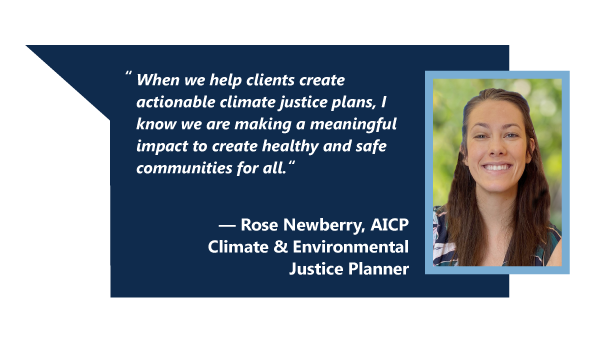
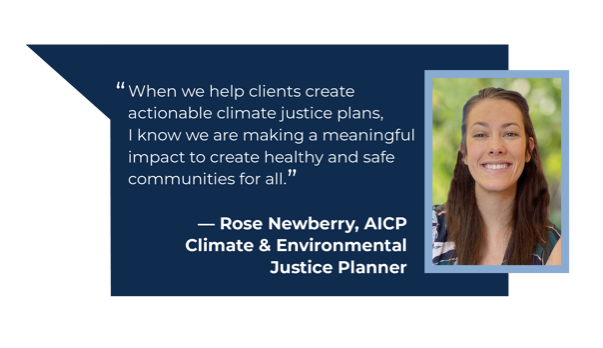
made edits to all bios
update font to match new branding, text edits to quotes

diff --git a/index.hyperesources/index_hype_generated_script.js b/index.hyperesources/index_hype_generated_script.js
@@ -3,5 +3,5 @@
 (function(){(function m(){function k(a,b,c,d){var e=!1;null==window[a]&&(null==window[b]?(window[b]=[],window[b].push(m),a=document.getElementsByTagName("head")[0],b=document.createElement("script"),e=l,false==!0&&(e=""),b.type="text/javascript",""!=d&&(b.integrity=d,b.setAttribute("crossorigin","anonymous")),b.src=e+"/"+c,a.appendChild(b)):window[b].push(m),e=!0);return e}var l="index.hyperesources",f="index",g="index_hype_container";if(false==
 !1)try{for(var c=document.getElementsByTagName("script"),a=0;a<c.length;a++){var d=c[a].src,b=null!=d?d.indexOf("/index_hype_generated_script.js"):-1;if(-1!=b){l=d.substr(0,b);break}}}catch(p){}c=navigator.userAgent.match(/MSIE (\d+\.\d+)/);c=parseFloat(c&&c[1])||null;d=!0==(null!=window.HYPE_736F||null!=window.HYPE_dtl_736F)||false==!0||null!=c&&10>c;a=!0==d?"HYPE-736.full.min.js":"HYPE-736.thin.min.js";c=!0==d?"F":"T";d=d?"":
 "";if(false==!1&&(a=k("HYPE_736"+c,"HYPE_dtl_736"+c,a,d),false==!0&&(a=a||k("HYPE_w_736","HYPE_wdtl_736","HYPE-736.waypoints.min.js","")),false==!0&&(a=a||k("Matter","HYPE_pdtl_736","HYPE-736.physics.min.js","")),a))return;d=window.HYPE.documents;if(null!=d[f]){b=1;a=f;do f=""+a+"-"+b++;while(null!=d[f]);for(var e=document.getElementsByTagName("div"),
-b=!1,a=0;a<e.length;a++)if(e[a].id==g&&null==e[a].getAttribute("HYP_dn")){var b=1,h=g;do g=""+h+"-"+b++;while(null!=document.getElementById(g));e[a].id=g;b=!0;break}if(!1==b)return}b=[];b=[];e={};h={};for(a=0;a<b.length;a++)try{h[b[a].identifier]=b[a].name,e[b[a].name]=eval("(function(){return "+b[a].source+"})();")}catch(n){window.console&&window.console.log(n),e[b[a].name]=function(){}}c=new window["HYPE_736"+c](f,g,{"-2":{n:"blank.gif"},"18":{p:1,n:"Curtis_quote.png",g:"315",o:true,t:"@1x"},"10":{p:1,n:"legend.png",g:"281",o:true,t:"@1x"},"19":{p:1,n:"Curtis_quote_2x.png",g:"315",o:true,t:"@2x"},"11":{p:1,n:"legend_2x.png",g:"281",o:true,t:"@2x"},"0":{p:1,n:"state_lines.png",g:"37",t:"@1x"},"12":{p:1,n:"adrienne_quote.png",g:"252",t:"@1x"},"1":{p:1,n:"lines.png",g:"23",t:"@1x"},"2":{p:1,n:"peeps.png",g:"25",t:"@1x"},"13":{p:1,n:"Vipul_quote.png",g:"283",t:"@1x"},"3":{p:1,n:"laurie_M_quote.png",g:"126",t:"@1x"},"14":{p:1,n:"Keith_quote.png",g:"285",t:"@1x"},"4":{p:1,n:"lisa_quote.png",g:"196",t:"@1x"},"5":{p:1,n:"Dustin_quote.png",g:"214",t:"@1x"},"15":{p:1,n:"erlin_quote.png",g:"234",t:"@1x"},"6":{p:1,n:"map.png",g:"19",t:"@1x"},"16":{p:1,n:"allison_quote.png",g:"254",o:true,t:"@1x"},"7":{p:1,n:"blue_dot.png",g:"59",o:true,t:"@1x"},"-1":{n:"PIE.htc"},"8":{p:1,n:"blue_dot_2x.png",g:"59",o:true,t:"@2x"},"17":{p:1,n:"allison_quote_2x.png",g:"254",o:true,t:"@2x"},"9":{p:1,n:"Rose_quote.png",g:"86",t:"@1x"}},l,[],e,[{n:"opening",o:"1",X:[0]},{n:"Curtis",o:"297",X:[1]},{n:"adrienne",o:"236",X:[2]},{n:"Erlin",o:"218",X:[3]},{n:"Rose",o:"258",X:[4]},{n:"Allison",o:"88",X:[5]},{n:"Laurie",o:"110",X:[6]},{n:"vipul",o:"144",X:[7]},{n:"Keith",o:"162",X:[8]},{n:"Lisa",o:"180",X:[9]},{n:"dustin",o:"198",X:[10]}],
-[{o:"3",p:"600px",cA:false,Y:1240,Z:800,L:[],c:"#FFF",bY:1,d:1240,U:{},T:{kTimelineDefaultIdentifier:{q:false,z:2,i:"kTimelineDefaultIdentifier",n:"Main Timeline",a:[{f:"c",y:0,z:1,i:"e",e:0,s:1,o:"322"},{f:"c",y:0,z:1,i:"e",e:0,s:1,o:"326"},{f:"c",y:0,z:1,i:"e",e:0,s:1,o:"329"},{f:"c",y:0,z:1,i:"e",e:0,s:1,o:"317"},{f:"c",y:0,z:1,i:"e",e:0,s:1,o:"320"},{f:"c",y:0,z:1,i:"e",e:0,s:1,o:"324"},{f:"c",y:0,z:1,i:"e",e:0,s:1,o:"327"},{f:"c",y:0,z:1,i:"e",e:0,s:1,o:"331"},{f:"c",y:0,z:1,i:"e",e:0,s:1,o:"318"},{f:"c",y:0,z:1,i:"e",e:0,s:1,o:"321"},{f:"c",y:1,z:1,i:"e",e:1,s:0,o:"326"},{f:"c",y:1,z:1,i:"e",e:1,s:0,o:"322"},{f:"c",y:1,z:1,i:"e",e:1,s:0,o:"329"},{f:"c",y:1,z:1,i:"e",e:1,s:0,o:"317"},{f:"c",y:1,z:1,i:"e",e:1,s:0,o:"320"},{f:"c",y:1,z:1,i:"e",e:1,s:0,o:"324"},{f:"c",y:1,z:1,i:"e",e:1,s:0,o:"327"},{f:"c",y:1,z:1,i:"e",e:1,s:0,o:"331"},{f:"c",y:1,z:1,i:"e",e:1,s:0,o:"318"},{f:"c",y:1,z:1,i:"e",e:1,s:0,o:"321"},{f:"c",p:2,y:2,z:0,i:"ActionHandler",s:{a:[{b:"kTimelineDefaultIdentifier",p:3,z:false,symbolOid:"2"}]},o:"kTimelineDefaultIdentifier"},{y:2,i:"e",s:1,z:0,o:"326",f:"c"},{y:2,i:"e",s:1,z:0,o:"322",f:"c"},{y:2,i:"e",s:1,z:0,o:"329",f:"c"},{y:2,i:"e",s:1,z:0,o:"317",f:"c"},{y:2,i:"e",s:1,z:0,o:"320",f:"c"},{y:2,i:"e",s:1,z:0,o:"324",f:"c"},{y:2,i:"e",s:1,z:0,o:"327",f:"c"},{y:2,i:"e",s:1,z:0,o:"331",f:"c"},{y:2,i:"e",s:1,z:0,o:"318",f:"c"},{y:2,i:"e",s:1,z:0,o:"321",f:"c"}],f:30,b:[]}},bZ:180,O:["319","325","330","328","318","331","326","320","324","322","321","329","317","323","327"],n:"Untitled Layout","_":0,v:{"329":{aD:{a:[{d:0.25,p:1,g:2,e:"110"}]},p:"no-repeat",x:"visible",h:"59",q:"100% 100%",a:85,j:"absolute",r:"inline",z:10,b:472,dB:"img",d:39,k:"div",c:39,e:1,aP:"pointer"},"318":{aD:{a:[{d:0.25,p:1,g:2,e:"218"}]},p:"no-repeat",x:"visible",h:"59",q:"100% 100%",a:1019,j:"absolute",r:"inline",z:16,b:230,dB:"img",d:39,k:"div",c:39,e:1,aP:"pointer"},"324":{aD:{a:[{d:0.25,p:1,g:2,e:"162"}]},p:"no-repeat",x:"visible",h:"59",q:"100% 100%",a:487,j:"absolute",r:"inline",z:13,b:318,dB:"img",d:39,k:"div",c:39,e:1,aP:"pointer"},"330":{h:"19",p:"no-repeat",x:"visible",a:0,dB:"img",q:"100% 100%",j:"absolute",r:"inline",z:1,k:"div",b:0,d:800,c:1240},"327":{aD:{a:[{d:0.5,p:1,g:2,e:"198"}]},p:"no-repeat",x:"visible",h:"59",q:"100% 100%",a:387,j:"absolute",r:"inline",z:14,b:606,dB:"img",d:39,k:"div",c:39,e:1,aP:"pointer"},"322":{aD:{a:[{d:0.25,p:1,g:2,e:"297"}]},p:"no-repeat",x:"visible",h:"59",q:"100% 100%",a:312,j:"absolute",r:"inline",b:361,z:7,dB:"img",d:39,k:"div",c:39,e:1,aP:"pointer",bD:"none"},"319":{h:"25",p:"no-repeat",x:"visible",a:4,dB:"img",q:"100% 100%",j:"absolute",r:"inline",z:5,k:"div",b:0,d:800,c:1240},"320":{aD:{a:[{d:0.25,p:1,g:2,e:"88"}]},p:"no-repeat",x:"visible",h:"59",q:"100% 100%",a:228,j:"absolute",r:"inline",z:12,b:305,dB:"img",d:39,k:"div",c:39,e:1,aP:"pointer"},"325":{h:"37",p:"no-repeat",x:"visible",a:0,dB:"img",q:"100% 100%",j:"absolute",r:"inline",z:2,k:"div",b:0,d:800,c:1240},"331":{aD:{a:[{d:0.5,p:1,g:2,e:"180"}]},p:"no-repeat",x:"visible",h:"59",q:"100% 100%",a:793,j:"absolute",r:"inline",z:15,b:279,dB:"img",d:39,k:"div",c:39,e:1,aP:"pointer"},"328":{h:"23",p:"no-repeat",x:"visible",a:20,dB:"img",q:"100% 100%",j:"absolute",r:"inline",z:6,b:20,k:"div",d:800,c:1240,e:1},"317":{aD:{a:[{d:0.25,p:1,g:2,e:"144"}]},p:"no-repeat",x:"visible",h:"59",q:"100% 100%",a:149,j:"absolute",r:"inline",z:11,b:541,dB:"img",d:39,k:"div",c:39,e:1,aP:"pointer"},"323":{h:"281",p:"no-repeat",x:"visible",a:832,dB:"img",q:"100% 100%",j:"absolute",r:"inline",z:18,k:"div",b:539,d:22.32,c:201.6},"326":{aD:{a:[{d:0.25,p:1,g:2,e:"258"}]},p:"no-repeat",x:"visible",h:"59",q:"100% 100%",a:124,j:"absolute",r:"inline",b:310,z:8,dB:"img",d:39,k:"div",c:39,e:1,aP:"pointer",bD:"none"},"321":{aD:{a:[{d:0.5,p:1,g:2,e:"236"}]},p:"no-repeat",x:"visible",h:"59",q:"100% 100%",a:1135,j:"absolute",r:"inline",z:17,b:464,dB:"img",d:39,k:"div",c:39,e:1,aP:"pointer"}}},{o:"314",p:"600px",cA:false,Y:1240,Z:800,L:[],c:"#FFF",bY:1,d:1240,U:{},T:{kTimelineDefaultIdentifier:{q:false,z:2,i:"kTimelineDefaultIdentifier",n:"Main Timeline",a:[{f:"c",y:0,z:1,i:"e",e:0,s:1,o:"335"},{f:"c",y:1,z:1,i:"e",e:1,s:0,o:"335"},{f:"c",p:2,y:2,z:0,i:"ActionHandler",s:{a:[{b:"kTimelineDefaultIdentifier",p:3,z:false,symbolOid:"2"}]},o:"kTimelineDefaultIdentifier"},{y:2,i:"e",s:1,z:0,o:"335",f:"c"}],f:30,b:[]}},bZ:180,O:["332","336","334","333","337","335"],n:"Untitled Layout","_":1,v:{"337":{h:"315",p:"no-repeat",x:"visible",a:356,dB:"img",q:"100% 100%",j:"absolute",r:"inline",z:8,k:"div",b:129,d:252.48,c:550.32},"334":{h:"19",p:"no-repeat",x:"visible",a:0,dB:"img",q:"100% 100%",j:"absolute",r:"inline",z:1,k:"div",b:0,d:800,c:1240},"335":{h:"59",p:"no-repeat",x:"visible",a:312,q:"100% 100%",b:361,j:"absolute",r:"inline",z:7,dB:"img",k:"div",d:39,c:39,e:1,aP:"pointer",aC:{a:[{d:0.25,p:1,g:2,e:"1"}]},bD:"none"},"332":{h:"25",p:"no-repeat",x:"visible",a:4,dB:"img",q:"100% 100%",j:"absolute",r:"inline",z:5,k:"div",b:0,d:800,c:1240},"336":{h:"37",p:"no-repeat",x:"visible",a:0,dB:"img",q:"100% 100%",j:"absolute",r:"inline",z:2,k:"div",b:0,d:800,c:1240},"333":{h:"23",p:"no-repeat",x:"visible",a:20,dB:"img",q:"100% 100%",j:"absolute",r:"inline",z:6,b:20,k:"div",d:800,c:1240,e:1}}},{o:"251",p:"600px",cA:false,Y:1240,Z:800,L:[],c:"#FFF",bY:1,d:1240,U:{},T:{kTimelineDefaultIdentifier:{q:false,z:0,i:"kTimelineDefaultIdentifier",n:"Main Timeline",a:[],f:30,b:[]}},bZ:180,O:["340","342","338","339","341","343"],n:"Untitled Layout","_":2,v:{"342":{h:"37",p:"no-repeat",x:"visible",a:0,dB:"img",q:"100% 100%",j:"absolute",r:"inline",z:2,k:"div",b:0,d:800,c:1240},"338":{h:"19",p:"no-repeat",x:"visible",a:0,dB:"img",q:"100% 100%",j:"absolute",r:"inline",z:1,k:"div",b:0,d:800,c:1240},"340":{h:"25",p:"no-repeat",x:"visible",a:4,dB:"img",q:"100% 100%",j:"absolute",r:"inline",z:4,k:"div",b:0,d:800,c:1240},"339":{h:"23",p:"no-repeat",x:"visible",a:20,dB:"img",q:"100% 100%",j:"absolute",r:"inline",z:5,b:20,k:"div",d:800,c:1240,e:1},"341":{h:"252",p:"no-repeat",x:"visible",a:581,dB:"img",q:"100% 100%",j:"absolute",r:"inline",z:6,k:"div",b:442,d:348,c:603},"343":{h:"59",p:"no-repeat",x:"visible",a:1135,q:"100% 100%",b:464,j:"absolute",r:"inline",z:15,dB:"img",k:"div",d:39,c:39,e:1,aP:"pointer",aC:{a:[{d:0.25,p:1,g:2,e:"1"}]}}}},{o:"233",p:"600px",cA:false,Y:1240,Z:800,L:[],c:"#FFF",bY:1,d:1240,U:{},T:{kTimelineDefaultIdentifier:{q:false,z:0,i:"kTimelineDefaultIdentifier",n:"Main Timeline",a:[],f:30,b:[]}},bZ:180,O:["345","348","347","344","346","349"],n:"Untitled Layout","_":3,v:{"349":{h:"59",p:"no-repeat",x:"visible",a:1019,q:"100% 100%",b:230,j:"absolute",r:"inline",z:14,dB:"img",k:"div",d:39,c:39,e:1,aP:"pointer",aC:{a:[{d:0.25,p:1,g:2,e:"1"}]}},"346":{h:"234",p:"no-repeat",x:"visible",a:471,dB:"img",q:"100% 100%",j:"absolute",r:"inline",z:6,k:"div",b:203,d:348,c:603},"347":{h:"19",p:"no-repeat",x:"visible",a:0,dB:"img",q:"100% 100%",j:"absolute",r:"inline",z:1,k:"div",b:0,d:800,c:1240},"344":{h:"23",p:"no-repeat",x:"visible",a:20,dB:"img",q:"100% 100%",j:"absolute",r:"inline",z:5,b:20,k:"div",d:800,c:1240,e:1},"348":{h:"37",p:"no-repeat",x:"visible",a:0,dB:"img",q:"100% 100%",j:"absolute",r:"inline",z:2,k:"div",b:0,d:800,c:1240},"345":{h:"25",p:"no-repeat",x:"visible",a:4,dB:"img",q:"100% 100%",j:"absolute",r:"inline",z:4,k:"div",b:0,d:800,c:1240}}},{o:"266",p:"600px",cA:false,Y:1240,Z:800,L:[],c:"#FFF",bY:1,d:1240,U:{},T:{kTimelineDefaultIdentifier:{q:false,z:0,i:"kTimelineDefaultIdentifier",n:"Main Timeline",a:[],f:30,b:[]}},bZ:180,O:["355","354","353","352","351","350"],n:"Untitled Layout","_":4,v:{"354":{h:"37",p:"no-repeat",x:"visible",a:0,dB:"img",q:"100% 100%",j:"absolute",r:"inline",z:2,k:"div",b:0,d:800,c:1240},"351":{h:"86",p:"no-repeat",x:"visible",a:124,dB:"img",q:"100% 100%",j:"absolute",r:"inline",z:6,k:"div",b:285,d:348,c:603},"355":{h:"25",p:"no-repeat",x:"visible",a:4,dB:"img",q:"100% 100%",j:"absolute",r:"inline",z:4,k:"div",b:0,d:800,c:1240},"352":{h:"23",p:"no-repeat",x:"visible",a:20,dB:"img",q:"100% 100%",j:"absolute",r:"inline",z:5,b:20,k:"div",d:800,c:1240,e:1},"353":{h:"19",p:"no-repeat",x:"visible",a:0,dB:"img",q:"100% 100%",j:"absolute",r:"inline",z:1,k:"div",b:0,d:800,c:1240},"350":{h:"59",p:"no-repeat",x:"visible",a:124,q:"100% 100%",b:310,j:"absolute",r:"inline",z:7,dB:"img",k:"div",d:39,c:39,e:1,aP:"pointer",aC:{a:[{d:0.25,p:1,g:2,e:"1"}]}}}},{o:"103",p:"600px",cA:false,Y:1240,Z:800,L:[],c:"#FFF",bY:1,d:1240,U:{},T:{kTimelineDefaultIdentifier:{q:false,z:0,i:"kTimelineDefaultIdentifier",n:"Main Timeline",a:[],f:30,b:[]}},bZ:180,O:["358","359","360","356","361","357"],n:"Untitled Layout","_":5,v:{"358":{h:"25",p:"no-repeat",x:"visible",a:4,dB:"img",q:"100% 100%",j:"absolute",r:"inline",z:4,k:"div",b:0,d:800,c:1240},"360":{h:"19",p:"no-repeat",x:"visible",a:0,dB:"img",q:"100% 100%",j:"absolute",r:"inline",z:1,k:"div",b:0,d:800,c:1240},"359":{h:"37",p:"no-repeat",x:"visible",a:0,dB:"img",q:"100% 100%",j:"absolute",r:"inline",z:2,k:"div",b:0,d:800,c:1240},"356":{h:"23",p:"no-repeat",x:"visible",a:20,dB:"img",q:"100% 100%",j:"absolute",r:"inline",z:5,b:20,k:"div",d:800,c:1240,e:1},"361":{h:"59",p:"no-repeat",x:"visible",a:228,q:"100% 100%",b:305,j:"absolute",r:"inline",z:11,dB:"img",k:"div",d:39,c:39,e:1,aP:"pointer",aC:{a:[{d:0.25,p:1,g:2,e:"1"}]}},"357":{h:"254",p:"no-repeat",x:"visible",a:257,dB:"img",q:"100% 100%",j:"absolute",r:"inline",z:10,k:"div",b:325,d:252.48,c:544.56}}},{o:"125",p:"600px",cA:false,Y:1240,Z:800,L:[],c:"#FFF",bY:1,d:1240,U:{},T:{kTimelineDefaultIdentifier:{q:false,z:0,i:"kTimelineDefaultIdentifier",n:"Main Timeline",a:[],f:30,b:[]}},bZ:180,O:["362","365","363","366","364","367"],n:"Untitled Layout","_":6,v:{"366":{h:"23",p:"no-repeat",x:"visible",a:20,dB:"img",q:"100% 100%",j:"absolute",r:"inline",z:5,b:20,k:"div",d:800,c:1240,e:1},"363":{h:"19",p:"no-repeat",x:"visible",a:0,dB:"img",q:"100% 100%",j:"absolute",r:"inline",z:1,k:"div",b:0,d:800,c:1240},"367":{h:"59",p:"no-repeat",x:"visible",a:85,q:"100% 100%",b:472,j:"absolute",r:"inline",z:8,dB:"img",k:"div",d:39,c:39,e:1,aP:"pointer",aC:{a:[{d:0.25,p:1,g:2,e:"1"}]}},"364":{h:"126",p:"no-repeat",x:"visible",a:76,dB:"img",q:"100% 100%",j:"absolute",r:"inline",z:7,k:"div",b:444,d:348,c:603},"365":{h:"37",p:"no-repeat",x:"visible",a:0,dB:"img",q:"100% 100%",j:"absolute",r:"inline",z:2,k:"div",b:0,d:800,c:1240},"362":{h:"25",p:"no-repeat",x:"visible",a:4,dB:"img",q:"100% 100%",j:"absolute",r:"inline",z:4,k:"div",b:0,d:800,c:1240}}},{o:"159",p:"600px",cA:false,Y:1240,Z:800,L:[],c:"#FFF",bY:1,d:1240,U:{},T:{kTimelineDefaultIdentifier:{q:false,z:0,i:"kTimelineDefaultIdentifier",n:"Main Timeline",a:[],f:30,b:[]}},bZ:180,O:["370","372","371","368","369","373"],n:"Untitled Layout","_":7,v:{"371":{h:"19",p:"no-repeat",x:"visible",a:0,dB:"img",q:"100% 100%",j:"absolute",r:"inline",z:1,k:"div",b:0,d:800,c:1240},"373":{h:"59",p:"no-repeat",x:"visible",a:149,q:"100% 100%",b:541,j:"absolute",r:"inline",z:10,dB:"img",k:"div",d:39,c:39,e:1,aP:"pointer",aC:{a:[{d:0.25,p:1,g:2,e:"1"}]}},"372":{h:"37",p:"no-repeat",x:"visible",a:0,dB:"img",q:"100% 100%",j:"absolute",r:"inline",z:2,k:"div",b:0,d:800,c:1240},"368":{h:"23",p:"no-repeat",x:"visible",a:20,dB:"img",q:"100% 100%",j:"absolute",r:"inline",z:5,b:20,k:"div",d:800,c:1240,e:1},"370":{h:"25",p:"no-repeat",x:"visible",a:4,dB:"img",q:"100% 100%",j:"absolute",r:"inline",z:4,k:"div",b:0,d:800,c:1240},"369":{h:"283",p:"no-repeat",x:"visible",a:143,dB:"img",q:"100% 100%",j:"absolute",r:"inline",z:6,k:"div",b:267,d:348,c:603}}},{o:"177",p:"600px",cA:false,Y:1240,Z:800,L:[],c:"#FFF",bY:1,d:1240,U:{},T:{kTimelineDefaultIdentifier:{q:false,z:0,i:"kTimelineDefaultIdentifier",n:"Main Timeline",a:[],f:30,b:[]}},bZ:180,O:["374","378","379","376","375","377"],n:"Untitled Layout","_":8,v:{"378":{h:"37",p:"no-repeat",x:"visible",a:0,dB:"img",q:"100% 100%",j:"absolute",r:"inline",z:2,k:"div",b:0,d:800,c:1240},"375":{h:"285",p:"no-repeat",x:"visible",a:487,dB:"img",q:"100% 100%",j:"absolute",r:"inline",z:6,k:"div",b:294,d:348,c:603},"379":{h:"19",p:"no-repeat",x:"visible",a:0,dB:"img",q:"100% 100%",j:"absolute",r:"inline",z:1,k:"div",b:0,d:800,c:1240},"376":{h:"23",p:"no-repeat",x:"visible",a:20,dB:"img",q:"100% 100%",j:"absolute",r:"inline",z:5,b:20,k:"div",d:800,c:1240,e:1},"377":{h:"59",p:"no-repeat",x:"visible",a:487,q:"100% 100%",b:318,j:"absolute",r:"inline",z:13,dB:"img",k:"div",d:39,c:39,e:1,aP:"pointer",aC:{a:[{d:0.25,p:1,g:2,e:"1"}]}},"374":{h:"25",p:"no-repeat",x:"visible",a:4,dB:"img",q:"100% 100%",j:"absolute",r:"inline",z:4,k:"div",b:0,d:800,c:1240}}},{o:"195",p:"600px",cA:false,Y:1240,Z:800,L:[],c:"#FFF",bY:1,d:1240,U:{},T:{kTimelineDefaultIdentifier:{q:false,z:2,i:"kTimelineDefaultIdentifier",n:"Main Timeline",a:[{f:"c",y:0,z:1,i:"e",e:0,s:1,o:"383"},{f:"c",y:1,z:1,i:"e",e:1,s:0,o:"383"},{f:"c",p:2,y:2,z:0,i:"ActionHandler",s:{a:[{b:"kTimelineDefaultIdentifier",p:3,z:false,symbolOid:"2"}]},o:"kTimelineDefaultIdentifier"},{y:2,i:"e",s:1,z:0,o:"383",f:"c"}],f:30,b:[]}},bZ:180,O:["380","385","381","384","382","383"],n:"Untitled Layout","_":9,v:{"383":{h:"59",p:"no-repeat",x:"visible",a:793,q:"100% 100%",b:279,j:"absolute",r:"inline",z:13,dB:"img",k:"div",d:39,c:39,e:1,aP:"pointer",aC:{a:[{d:0.5,p:1,g:2,e:"1"}]}},"380":{h:"25",p:"no-repeat",x:"visible",a:4,dB:"img",q:"100% 100%",j:"absolute",r:"inline",z:4,k:"div",b:0,d:800,c:1240},"384":{h:"23",p:"no-repeat",x:"visible",a:20,dB:"img",q:"100% 100%",j:"absolute",r:"inline",z:5,b:20,k:"div",d:800,c:1240,e:1},"381":{h:"19",p:"no-repeat",x:"visible",a:0,dB:"img",q:"100% 100%",j:"absolute",r:"inline",z:1,k:"div",b:0,d:800,c:1240},"385":{h:"37",p:"no-repeat",x:"visible",a:0,dB:"img",q:"100% 100%",j:"absolute",r:"inline",z:2,k:"div",b:0,d:800,c:1240},"382":{h:"196",p:"no-repeat",x:"visible",a:245,dB:"img",q:"100% 100%",j:"absolute",r:"inline",z:6,k:"div",b:255,d:348,c:603}}},{o:"213",p:"600px",cA:false,Y:1240,Z:800,L:[],c:"#FFF",bY:1,d:1240,U:{},T:{kTimelineDefaultIdentifier:{q:false,z:0,i:"kTimelineDefaultIdentifier",n:"Main Timeline",a:[],f:30,b:[]}},bZ:180,O:["390","389","387","386","388","391"],n:"Untitled Layout","_":10,v:{"391":{h:"59",p:"no-repeat",x:"visible",a:387,q:"100% 100%",b:606,j:"absolute",r:"inline",z:12,dB:"img",k:"div",d:39,c:39,e:1,aP:"pointer",aC:{a:[{d:0.25,p:1,g:2,e:"1"}]}},"387":{h:"19",p:"no-repeat",x:"visible",a:0,dB:"img",q:"100% 100%",j:"absolute",r:"inline",z:1,k:"div",b:0,d:800,c:1240},"388":{h:"214",p:"no-repeat",x:"visible",a:394,dB:"img",q:"100% 100%",j:"absolute",r:"inline",z:6,k:"div",b:322,d:348,c:603},"390":{h:"25",p:"no-repeat",x:"visible",a:4,dB:"img",q:"100% 100%",j:"absolute",r:"inline",z:4,k:"div",b:0,d:800,c:1240},"389":{h:"37",p:"no-repeat",x:"visible",a:0,dB:"img",q:"100% 100%",j:"absolute",r:"inline",z:2,k:"div",b:0,d:800,c:1240},"386":{h:"23",p:"no-repeat",x:"visible",a:20,dB:"img",q:"100% 100%",j:"absolute",r:"inline",z:5,b:20,k:"div",d:800,c:1240,e:1}}}],{},h,{},null,false,true,-1,true,true,false,true,true);d[f]=c.API;document.getElementById(g).setAttribute("HYP_dn",f);c.z_o(this.body)})();})();
+b=!1,a=0;a<e.length;a++)if(e[a].id==g&&null==e[a].getAttribute("HYP_dn")){var b=1,h=g;do g=""+h+"-"+b++;while(null!=document.getElementById(g));e[a].id=g;b=!0;break}if(!1==b)return}b=[];b=[];e={};h={};for(a=0;a<b.length;a++)try{h[b[a].identifier]=b[a].name,e[b[a].name]=eval("(function(){return "+b[a].source+"})();")}catch(n){window.console&&window.console.log(n),e[b[a].name]=function(){}}c=new window["HYPE_736"+c](f,g,{"-2":{n:"blank.gif"},"25":{p:1,n:"Curtis_quote_2x.png",g:"315",o:true,t:"@2x"},"18":{p:1,n:"adrienne_quote.png",g:"252",o:true,t:"@1x"},"10":{p:1,n:"Dustin_quote.png",g:"214",o:true,t:"@1x"},"26":{p:1,n:"allison_quote..png",g:"254",o:true,t:"@1x"},"19":{p:1,n:"adrienne_quote_2x.png",g:"252",o:true,t:"@2x"},"11":{p:1,n:"Dustin_quote_2x.png",g:"214",o:true,t:"@2x"},"27":{p:1,n:"allison_quote._2x.png",g:"254",o:true,t:"@2x"},"0":{p:1,n:"state_lines.png",g:"37",t:"@1x"},"12":{p:1,n:"lisa_quote.png",g:"196",o:true,t:"@1x"},"1":{p:1,n:"lines.png",g:"23",t:"@1x"},"20":{p:1,n:"Keith_quote.png",g:"285",o:true,t:"@1x"},"2":{p:1,n:"peeps.png",g:"25",t:"@1x"},"13":{p:1,n:"lisa_quote_2x.png",g:"196",o:true,t:"@2x"},"3":{p:1,n:"map.png",g:"19",t:"@1x"},"21":{p:1,n:"Keith_quote_2x.png",g:"285",o:true,t:"@2x"},"14":{p:1,n:"Rose_quote.png",g:"86",o:true,t:"@1x"},"4":{p:1,n:"blue_dot.png",g:"59",o:true,t:"@1x"},"5":{p:1,n:"blue_dot_2x.png",g:"59",o:true,t:"@2x"},"15":{p:1,n:"Rose_quote_2x.png",g:"86",o:true,t:"@2x"},"22":{p:1,n:"erlin_quote.png",g:"234",o:true,t:"@1x"},"6":{p:1,n:"legend.png",g:"281",o:true,t:"@1x"},"23":{p:1,n:"erlin_quote_2x.png",g:"234",o:true,t:"@2x"},"16":{p:1,n:"Vipul_quote.png",g:"283",o:true,t:"@1x"},"7":{p:1,n:"legend_2x.png",g:"281",o:true,t:"@2x"},"-1":{n:"PIE.htc"},"8":{p:1,n:"laurie_M_quote.png",g:"126",o:true,t:"@1x"},"24":{p:1,n:"Curtis_quote.png",g:"315",o:true,t:"@1x"},"17":{p:1,n:"Vipul_quote_2x.png",g:"283",o:true,t:"@2x"},"9":{p:1,n:"laurie_M_quote_2x.png",g:"126",o:true,t:"@2x"}},l,[],e,[{n:"opening",o:"1",X:[0]},{n:"Curtis",o:"297",X:[1]},{n:"adrienne",o:"236",X:[2]},{n:"Erlin",o:"218",X:[3]},{n:"Rose",o:"258",X:[4]},{n:"Allison",o:"88",X:[5]},{n:"Laurie",o:"110",X:[6]},{n:"vipul",o:"144",X:[7]},{n:"Keith",o:"162",X:[8]},{n:"Lisa",o:"180",X:[9]},{n:"dustin",o:"198",X:[10]}],
+[{o:"3",p:"600px",cA:false,Y:1240,Z:800,L:[],c:"#FFF",bY:1,d:1240,U:{},T:{kTimelineDefaultIdentifier:{q:false,z:2,i:"kTimelineDefaultIdentifier",n:"Main Timeline",a:[{f:"c",y:0,z:1,i:"e",e:0,s:1,o:"324"},{f:"c",y:0,z:1,i:"e",e:0,s:1,o:"328"},{f:"c",y:0,z:1,i:"e",e:0,s:1,o:"331"},{f:"c",y:0,z:1,i:"e",e:0,s:1,o:"319"},{f:"c",y:0,z:1,i:"e",e:0,s:1,o:"322"},{f:"c",y:0,z:1,i:"e",e:0,s:1,o:"326"},{f:"c",y:0,z:1,i:"e",e:0,s:1,o:"329"},{f:"c",y:0,z:1,i:"e",e:0,s:1,o:"333"},{f:"c",y:0,z:1,i:"e",e:0,s:1,o:"320"},{f:"c",y:0,z:1,i:"e",e:0,s:1,o:"323"},{f:"c",y:1,z:1,i:"e",e:1,s:0,o:"328"},{f:"c",y:1,z:1,i:"e",e:1,s:0,o:"324"},{f:"c",y:1,z:1,i:"e",e:1,s:0,o:"331"},{f:"c",y:1,z:1,i:"e",e:1,s:0,o:"319"},{f:"c",y:1,z:1,i:"e",e:1,s:0,o:"322"},{f:"c",y:1,z:1,i:"e",e:1,s:0,o:"326"},{f:"c",y:1,z:1,i:"e",e:1,s:0,o:"329"},{f:"c",y:1,z:1,i:"e",e:1,s:0,o:"333"},{f:"c",y:1,z:1,i:"e",e:1,s:0,o:"320"},{f:"c",y:1,z:1,i:"e",e:1,s:0,o:"323"},{f:"c",p:2,y:2,z:0,i:"ActionHandler",s:{a:[{b:"kTimelineDefaultIdentifier",p:3,z:false,symbolOid:"2"}]},o:"kTimelineDefaultIdentifier"},{y:2,i:"e",s:1,z:0,o:"328",f:"c"},{y:2,i:"e",s:1,z:0,o:"324",f:"c"},{y:2,i:"e",s:1,z:0,o:"331",f:"c"},{y:2,i:"e",s:1,z:0,o:"319",f:"c"},{y:2,i:"e",s:1,z:0,o:"322",f:"c"},{y:2,i:"e",s:1,z:0,o:"326",f:"c"},{y:2,i:"e",s:1,z:0,o:"329",f:"c"},{y:2,i:"e",s:1,z:0,o:"333",f:"c"},{y:2,i:"e",s:1,z:0,o:"320",f:"c"},{y:2,i:"e",s:1,z:0,o:"323",f:"c"}],f:30,b:[]}},bZ:180,O:["321","327","332","330","320","333","328","322","326","324","323","331","319","325","329"],n:"Untitled Layout","_":0,v:{"329":{aD:{a:[{d:0.5,p:1,g:2,e:"198"}]},p:"no-repeat",x:"visible",h:"59",q:"100% 100%",a:387,j:"absolute",r:"inline",z:14,b:606,dB:"img",d:39,k:"div",c:39,e:1,aP:"pointer"},"330":{h:"23",p:"no-repeat",x:"visible",a:20,dB:"img",q:"100% 100%",j:"absolute",r:"inline",z:6,b:20,k:"div",d:800,c:1240,e:1},"324":{aD:{a:[{d:0.25,p:1,g:2,e:"297"}]},p:"no-repeat",x:"visible",h:"59",q:"100% 100%",a:312,j:"absolute",r:"inline",b:361,z:7,dB:"img",d:39,k:"div",c:39,e:1,aP:"pointer",bD:"none"},"327":{h:"37",p:"no-repeat",x:"visible",a:0,dB:"img",q:"100% 100%",j:"absolute",r:"inline",z:2,k:"div",b:0,d:800,c:1240},"322":{aD:{a:[{d:0.25,p:1,g:2,e:"88"}]},p:"no-repeat",x:"visible",h:"59",q:"100% 100%",a:228,j:"absolute",r:"inline",z:12,b:305,dB:"img",d:39,k:"div",c:39,e:1,aP:"pointer"},"333":{aD:{a:[{d:0.5,p:1,g:2,e:"180"}]},p:"no-repeat",x:"visible",h:"59",q:"100% 100%",a:793,j:"absolute",r:"inline",z:15,b:279,dB:"img",d:39,k:"div",c:39,e:1,aP:"pointer"},"319":{aD:{a:[{d:0.25,p:1,g:2,e:"144"}]},p:"no-repeat",x:"visible",h:"59",q:"100% 100%",a:149,j:"absolute",r:"inline",z:11,b:541,dB:"img",d:39,k:"div",c:39,e:1,aP:"pointer"},"320":{aD:{a:[{d:0.25,p:1,g:2,e:"218"}]},p:"no-repeat",x:"visible",h:"59",q:"100% 100%",a:1019,j:"absolute",r:"inline",z:16,b:230,dB:"img",d:39,k:"div",c:39,e:1,aP:"pointer"},"325":{h:"281",p:"no-repeat",x:"visible",a:832,dB:"img",q:"100% 100%",j:"absolute",r:"inline",z:18,k:"div",b:539,d:22.32,c:201.6},"331":{aD:{a:[{d:0.25,p:1,g:2,e:"110"}]},p:"no-repeat",x:"visible",h:"59",q:"100% 100%",a:85,j:"absolute",r:"inline",z:10,b:472,dB:"img",d:39,k:"div",c:39,e:1,aP:"pointer"},"328":{aD:{a:[{d:0.25,p:1,g:2,e:"258"}]},p:"no-repeat",x:"visible",h:"59",q:"100% 100%",a:124,j:"absolute",r:"inline",b:310,z:8,dB:"img",d:39,k:"div",c:39,e:1,aP:"pointer",bD:"none"},"323":{aD:{a:[{d:0.5,p:1,g:2,e:"236"}]},p:"no-repeat",x:"visible",h:"59",q:"100% 100%",a:1135,j:"absolute",r:"inline",z:17,b:464,dB:"img",d:39,k:"div",c:39,e:1,aP:"pointer"},"326":{aD:{a:[{d:0.25,p:1,g:2,e:"162"}]},p:"no-repeat",x:"visible",h:"59",q:"100% 100%",a:487,j:"absolute",r:"inline",z:13,b:318,dB:"img",d:39,k:"div",c:39,e:1,aP:"pointer"},"321":{h:"25",p:"no-repeat",x:"visible",a:4,dB:"img",q:"100% 100%",j:"absolute",r:"inline",z:5,k:"div",b:0,d:800,c:1240},"332":{h:"19",p:"no-repeat",x:"visible",a:0,dB:"img",q:"100% 100%",j:"absolute",r:"inline",z:1,k:"div",b:0,d:800,c:1240}}},{o:"314",p:"600px",cA:false,Y:1240,Z:800,L:[],c:"#FFF",bY:1,d:1240,U:{},T:{kTimelineDefaultIdentifier:{q:false,z:2,i:"kTimelineDefaultIdentifier",n:"Main Timeline",a:[{f:"c",y:0,z:1,i:"e",e:0,s:1,o:"337"},{f:"c",y:1,z:1,i:"e",e:1,s:0,o:"337"},{f:"c",p:2,y:2,z:0,i:"ActionHandler",s:{a:[{b:"kTimelineDefaultIdentifier",p:3,z:false,symbolOid:"2"}]},o:"kTimelineDefaultIdentifier"},{y:2,i:"e",s:1,z:0,o:"337",f:"c"}],f:30,b:[]}},bZ:180,O:["334","338","336","335","339","337"],n:"Untitled Layout","_":1,v:{"337":{h:"59",p:"no-repeat",x:"visible",a:312,q:"100% 100%",b:361,j:"absolute",r:"inline",z:7,dB:"img",k:"div",d:39,c:39,e:1,aP:"pointer",aC:{a:[{d:0.25,p:1,g:2,e:"1"}]},bD:"none"},"334":{h:"25",p:"no-repeat",x:"visible",a:4,dB:"img",q:"100% 100%",j:"absolute",r:"inline",z:5,k:"div",b:0,d:800,c:1240},"338":{h:"37",p:"no-repeat",x:"visible",a:0,dB:"img",q:"100% 100%",j:"absolute",r:"inline",z:2,k:"div",b:0,d:800,c:1240},"335":{h:"23",p:"no-repeat",x:"visible",a:20,dB:"img",q:"100% 100%",j:"absolute",r:"inline",z:6,b:20,k:"div",d:800,c:1240,e:1},"339":{h:"315",p:"no-repeat",x:"visible",a:338,dB:"img",q:"100% 100%",j:"absolute",r:"inline",z:8,k:"div",b:88,d:319,c:552},"336":{h:"19",p:"no-repeat",x:"visible",a:0,dB:"img",q:"100% 100%",j:"absolute",r:"inline",z:1,k:"div",b:0,d:800,c:1240}}},{o:"251",p:"600px",cA:false,Y:1240,Z:800,L:[],c:"#FFF",bY:1,d:1240,U:{},T:{kTimelineDefaultIdentifier:{q:false,z:0,i:"kTimelineDefaultIdentifier",n:"Main Timeline",a:[],f:30,b:[]}},bZ:180,O:["342","344","340","341","343","345"],n:"Untitled Layout","_":2,v:{"342":{h:"25",p:"no-repeat",x:"visible",a:4,dB:"img",q:"100% 100%",j:"absolute",r:"inline",z:4,k:"div",b:0,d:800,c:1240},"343":{h:"252",p:"no-repeat",x:"visible",a:565,dB:"img",q:"100% 100%",j:"absolute",r:"inline",z:6,k:"div",b:448,d:348,c:603},"340":{h:"19",p:"no-repeat",x:"visible",a:0,dB:"img",q:"100% 100%",j:"absolute",r:"inline",z:1,k:"div",b:0,d:800,c:1240},"344":{h:"37",p:"no-repeat",x:"visible",a:0,dB:"img",q:"100% 100%",j:"absolute",r:"inline",z:2,k:"div",b:0,d:800,c:1240},"341":{h:"23",p:"no-repeat",x:"visible",a:20,dB:"img",q:"100% 100%",j:"absolute",r:"inline",z:5,b:20,k:"div",d:800,c:1240,e:1},"345":{h:"59",p:"no-repeat",x:"visible",a:1135,q:"100% 100%",b:464,j:"absolute",r:"inline",z:15,dB:"img",k:"div",d:39,c:39,e:1,aP:"pointer",aC:{a:[{d:0.25,p:1,g:2,e:"1"}]}}}},{o:"233",p:"600px",cA:false,Y:1240,Z:800,L:[],c:"#FFF",bY:1,d:1240,U:{},T:{kTimelineDefaultIdentifier:{q:false,z:0,i:"kTimelineDefaultIdentifier",n:"Main Timeline",a:[],f:30,b:[]}},bZ:180,O:["347","350","349","346","348","351"],n:"Untitled Layout","_":3,v:{"349":{h:"19",p:"no-repeat",x:"visible",a:0,dB:"img",q:"100% 100%",j:"absolute",r:"inline",z:1,k:"div",b:0,d:800,c:1240},"346":{h:"23",p:"no-repeat",x:"visible",a:20,dB:"img",q:"100% 100%",j:"absolute",r:"inline",z:5,b:20,k:"div",d:800,c:1240,e:1},"351":{h:"59",p:"no-repeat",x:"visible",a:1019,q:"100% 100%",b:230,j:"absolute",r:"inline",z:14,dB:"img",k:"div",d:39,c:39,e:1,aP:"pointer",aC:{a:[{d:0.25,p:1,g:2,e:"1"}]}},"347":{h:"25",p:"no-repeat",x:"visible",a:4,dB:"img",q:"100% 100%",j:"absolute",r:"inline",z:4,k:"div",b:0,d:800,c:1240},"348":{h:"234",p:"no-repeat",x:"visible",a:448,dB:"img",q:"100% 100%",j:"absolute",r:"inline",z:6,k:"div",b:214,d:348,c:603},"350":{h:"37",p:"no-repeat",x:"visible",a:0,dB:"img",q:"100% 100%",j:"absolute",r:"inline",z:2,k:"div",b:0,d:800,c:1240}}},{o:"266",p:"600px",cA:false,Y:1240,Z:800,L:[],c:"#FFF",bY:1,d:1240,U:{},T:{kTimelineDefaultIdentifier:{q:false,z:0,i:"kTimelineDefaultIdentifier",n:"Main Timeline",a:[],f:30,b:[]}},bZ:180,O:["357","356","355","354","353","352"],n:"Untitled Layout","_":4,v:{"354":{h:"23",p:"no-repeat",x:"visible",a:20,dB:"img",q:"100% 100%",j:"absolute",r:"inline",z:5,b:20,k:"div",d:800,c:1240,e:1},"355":{h:"19",p:"no-repeat",x:"visible",a:0,dB:"img",q:"100% 100%",j:"absolute",r:"inline",z:1,k:"div",b:0,d:800,c:1240},"352":{h:"59",p:"no-repeat",x:"visible",a:124,q:"100% 100%",b:310,j:"absolute",r:"inline",z:7,dB:"img",k:"div",d:39,c:39,e:1,aP:"pointer",aC:{a:[{d:0.25,p:1,g:2,e:"1"}]}},"356":{h:"37",p:"no-repeat",x:"visible",a:0,dB:"img",q:"100% 100%",j:"absolute",r:"inline",z:2,k:"div",b:0,d:800,c:1240},"353":{h:"86",p:"no-repeat",x:"visible",a:138,dB:"img",q:"100% 100%",j:"absolute",r:"inline",z:6,k:"div",b:294,d:348,c:603},"357":{h:"25",p:"no-repeat",x:"visible",a:4,dB:"img",q:"100% 100%",j:"absolute",r:"inline",z:4,k:"div",b:0,d:800,c:1240}}},{o:"103",p:"600px",cA:false,Y:1240,Z:800,L:[],c:"#FFF",bY:1,d:1240,U:{},T:{kTimelineDefaultIdentifier:{q:false,z:0,i:"kTimelineDefaultIdentifier",n:"Main Timeline",a:[],f:30,b:[]}},bZ:180,O:["360","361","362","358","359","363"],n:"Untitled Layout","_":5,v:{"358":{h:"23",p:"no-repeat",x:"visible",a:20,dB:"img",q:"100% 100%",j:"absolute",r:"inline",z:5,b:20,k:"div",d:800,c:1240,e:1},"360":{h:"25",p:"no-repeat",x:"visible",a:4,dB:"img",q:"100% 100%",j:"absolute",r:"inline",z:4,k:"div",b:0,d:800,c:1240},"359":{h:"254",p:"no-repeat",x:"visible",a:248,dB:"img",q:"100% 100%",j:"absolute",r:"inline",z:10,k:"div",b:284,d:348,c:603},"361":{h:"37",p:"no-repeat",x:"visible",a:0,dB:"img",q:"100% 100%",j:"absolute",r:"inline",z:2,k:"div",b:0,d:800,c:1240},"363":{h:"59",p:"no-repeat",x:"visible",a:228,q:"100% 100%",b:305,j:"absolute",r:"inline",z:11,dB:"img",k:"div",d:39,c:39,e:1,aP:"pointer",aC:{a:[{d:0.25,p:1,g:2,e:"1"}]}},"362":{h:"19",p:"no-repeat",x:"visible",a:0,dB:"img",q:"100% 100%",j:"absolute",r:"inline",z:1,k:"div",b:0,d:800,c:1240}}},{o:"125",p:"600px",cA:false,Y:1240,Z:800,L:[],c:"#FFF",bY:1,d:1240,U:{},T:{kTimelineDefaultIdentifier:{q:false,z:0,i:"kTimelineDefaultIdentifier",n:"Main Timeline",a:[],f:30,b:[]}},bZ:180,O:["364","367","365","368","366","369"],n:"Untitled Layout","_":6,v:{"366":{h:"126",p:"no-repeat",x:"visible",a:90,dB:"img",q:"100% 100%",j:"absolute",r:"inline",z:7,k:"div",b:452,d:348,c:603},"367":{h:"37",p:"no-repeat",x:"visible",a:0,dB:"img",q:"100% 100%",j:"absolute",r:"inline",z:2,k:"div",b:0,d:800,c:1240},"364":{h:"25",p:"no-repeat",x:"visible",a:4,dB:"img",q:"100% 100%",j:"absolute",r:"inline",z:4,k:"div",b:0,d:800,c:1240},"368":{h:"23",p:"no-repeat",x:"visible",a:20,dB:"img",q:"100% 100%",j:"absolute",r:"inline",z:5,b:20,k:"div",d:800,c:1240,e:1},"365":{h:"19",p:"no-repeat",x:"visible",a:0,dB:"img",q:"100% 100%",j:"absolute",r:"inline",z:1,k:"div",b:0,d:800,c:1240},"369":{h:"59",p:"no-repeat",x:"visible",a:85,q:"100% 100%",b:472,j:"absolute",r:"inline",z:8,dB:"img",k:"div",d:39,c:39,e:1,aP:"pointer",aC:{a:[{d:0.25,p:1,g:2,e:"1"}]}}}},{o:"159",p:"600px",cA:false,Y:1240,Z:800,L:[],c:"#FFF",bY:1,d:1240,U:{},T:{kTimelineDefaultIdentifier:{q:false,z:0,i:"kTimelineDefaultIdentifier",n:"Main Timeline",a:[],f:30,b:[]}},bZ:180,O:["372","374","373","370","371","375"],n:"Untitled Layout","_":7,v:{"371":{h:"283",p:"no-repeat",x:"visible",a:169,dB:"img",q:"100% 100%",j:"absolute",r:"inline",z:6,k:"div",b:260,d:348,c:603},"375":{h:"59",p:"no-repeat",x:"visible",a:149,q:"100% 100%",b:541,j:"absolute",r:"inline",z:10,dB:"img",k:"div",d:39,c:39,e:1,aP:"pointer",aC:{a:[{d:0.25,p:1,g:2,e:"1"}]}},"372":{h:"25",p:"no-repeat",x:"visible",a:4,dB:"img",q:"100% 100%",j:"absolute",r:"inline",z:4,k:"div",b:0,d:800,c:1240},"373":{h:"19",p:"no-repeat",x:"visible",a:0,dB:"img",q:"100% 100%",j:"absolute",r:"inline",z:1,k:"div",b:0,d:800,c:1240},"370":{h:"23",p:"no-repeat",x:"visible",a:20,dB:"img",q:"100% 100%",j:"absolute",r:"inline",z:5,b:20,k:"div",d:800,c:1240,e:1},"374":{h:"37",p:"no-repeat",x:"visible",a:0,dB:"img",q:"100% 100%",j:"absolute",r:"inline",z:2,k:"div",b:0,d:800,c:1240}}},{o:"177",p:"600px",cA:false,Y:1240,Z:800,L:[],c:"#FFF",bY:1,d:1240,U:{},T:{kTimelineDefaultIdentifier:{q:false,z:0,i:"kTimelineDefaultIdentifier",n:"Main Timeline",a:[],f:30,b:[]}},bZ:180,O:["376","380","381","378","377","379"],n:"Untitled Layout","_":8,v:{"378":{h:"23",p:"no-repeat",x:"visible",a:20,dB:"img",q:"100% 100%",j:"absolute",r:"inline",z:5,b:20,k:"div",d:800,c:1240,e:1},"380":{h:"37",p:"no-repeat",x:"visible",a:0,dB:"img",q:"100% 100%",j:"absolute",r:"inline",z:2,k:"div",b:0,d:800,c:1240},"379":{h:"59",p:"no-repeat",x:"visible",a:487,q:"100% 100%",b:318,j:"absolute",r:"inline",z:13,dB:"img",k:"div",d:39,c:39,e:1,aP:"pointer",aC:{a:[{d:0.25,p:1,g:2,e:"1"}]}},"376":{h:"25",p:"no-repeat",x:"visible",a:4,dB:"img",q:"100% 100%",j:"absolute",r:"inline",z:4,k:"div",b:0,d:800,c:1240},"381":{h:"19",p:"no-repeat",x:"visible",a:0,dB:"img",q:"100% 100%",j:"absolute",r:"inline",z:1,k:"div",b:0,d:800,c:1240},"377":{h:"285",p:"no-repeat",x:"visible",a:507,dB:"img",q:"100% 100%",j:"absolute",r:"inline",z:6,k:"div",b:302,d:348,c:603}}},{o:"195",p:"600px",cA:false,Y:1240,Z:800,L:[],c:"#FFF",bY:1,d:1240,U:{},T:{kTimelineDefaultIdentifier:{q:false,z:2,i:"kTimelineDefaultIdentifier",n:"Main Timeline",a:[{f:"c",y:0,z:1,i:"e",e:0,s:1,o:"385"},{f:"c",y:1,z:1,i:"e",e:1,s:0,o:"385"},{f:"c",p:2,y:2,z:0,i:"ActionHandler",s:{a:[{b:"kTimelineDefaultIdentifier",p:3,z:false,symbolOid:"2"}]},o:"kTimelineDefaultIdentifier"},{y:2,i:"e",s:1,z:0,o:"385",f:"c"}],f:30,b:[]}},bZ:180,O:["382","387","383","386","384","385"],n:"Untitled Layout","_":9,v:{"383":{h:"19",p:"no-repeat",x:"visible",a:0,dB:"img",q:"100% 100%",j:"absolute",r:"inline",z:1,k:"div",b:0,d:800,c:1240},"387":{h:"37",p:"no-repeat",x:"visible",a:0,dB:"img",q:"100% 100%",j:"absolute",r:"inline",z:2,k:"div",b:0,d:800,c:1240},"384":{h:"196",p:"no-repeat",x:"visible",a:223,dB:"img",q:"100% 100%",j:"absolute",r:"inline",z:6,k:"div",b:263,d:348,c:603},"385":{h:"59",p:"no-repeat",x:"visible",a:793,q:"100% 100%",b:279,j:"absolute",r:"inline",z:13,dB:"img",k:"div",d:39,c:39,e:1,aP:"pointer",aC:{a:[{d:0.5,p:1,g:2,e:"1"}]}},"382":{h:"25",p:"no-repeat",x:"visible",a:4,dB:"img",q:"100% 100%",j:"absolute",r:"inline",z:4,k:"div",b:0,d:800,c:1240},"386":{h:"23",p:"no-repeat",x:"visible",a:20,dB:"img",q:"100% 100%",j:"absolute",r:"inline",z:5,b:20,k:"div",d:800,c:1240,e:1}}},{o:"213",p:"600px",cA:false,Y:1240,Z:800,L:[],c:"#FFF",bY:1,d:1240,U:{},T:{kTimelineDefaultIdentifier:{q:false,z:0,i:"kTimelineDefaultIdentifier",n:"Main Timeline",a:[],f:30,b:[]}},bZ:180,O:["392","391","389","388","390","393"],n:"Untitled Layout","_":10,v:{"393":{h:"59",p:"no-repeat",x:"visible",a:387,q:"100% 100%",b:606,j:"absolute",r:"inline",z:12,dB:"img",k:"div",d:39,c:39,e:1,aP:"pointer",aC:{a:[{d:0.25,p:1,g:2,e:"1"}]}},"392":{h:"25",p:"no-repeat",x:"visible",a:4,dB:"img",q:"100% 100%",j:"absolute",r:"inline",z:4,k:"div",b:0,d:800,c:1240},"388":{h:"23",p:"no-repeat",x:"visible",a:20,dB:"img",q:"100% 100%",j:"absolute",r:"inline",z:5,b:20,k:"div",d:800,c:1240,e:1},"390":{h:"214",p:"no-repeat",x:"visible",a:413,dB:"img",q:"100% 100%",j:"absolute",r:"inline",z:6,k:"div",b:313,d:348,c:603},"389":{h:"19",p:"no-repeat",x:"visible",a:0,dB:"img",q:"100% 100%",j:"absolute",r:"inline",z:1,k:"div",b:0,d:800,c:1240},"391":{h:"37",p:"no-repeat",x:"visible",a:0,dB:"img",q:"100% 100%",j:"absolute",r:"inline",z:2,k:"div",b:0,d:800,c:1240}}}],{},h,{},null,false,true,-1,true,true,false,true,true);d[f]=c.API;document.getElementById(g).setAttribute("HYP_dn",f);c.z_o(this.body)})();})();

diff --git a/index.html b/index.html
@@ -24,7 +24,7 @@
 	<!-- copy these lines to your document: -->
 
 	<div id="index_hype_container" class="HYPE_document" style="margin:auto;position:relative;width:1240px;height:800px;overflow:hidden;">
-		<script type="text/javascript" charset="utf-8" src="index.hyperesources/index_hype_generated_script.js?20387"></script>
+		<script type="text/javascript" charset="utf-8" src="index.hyperesources/index_hype_generated_script.js?53505"></script>
 	</div>
 
 	<!-- end copy -->
